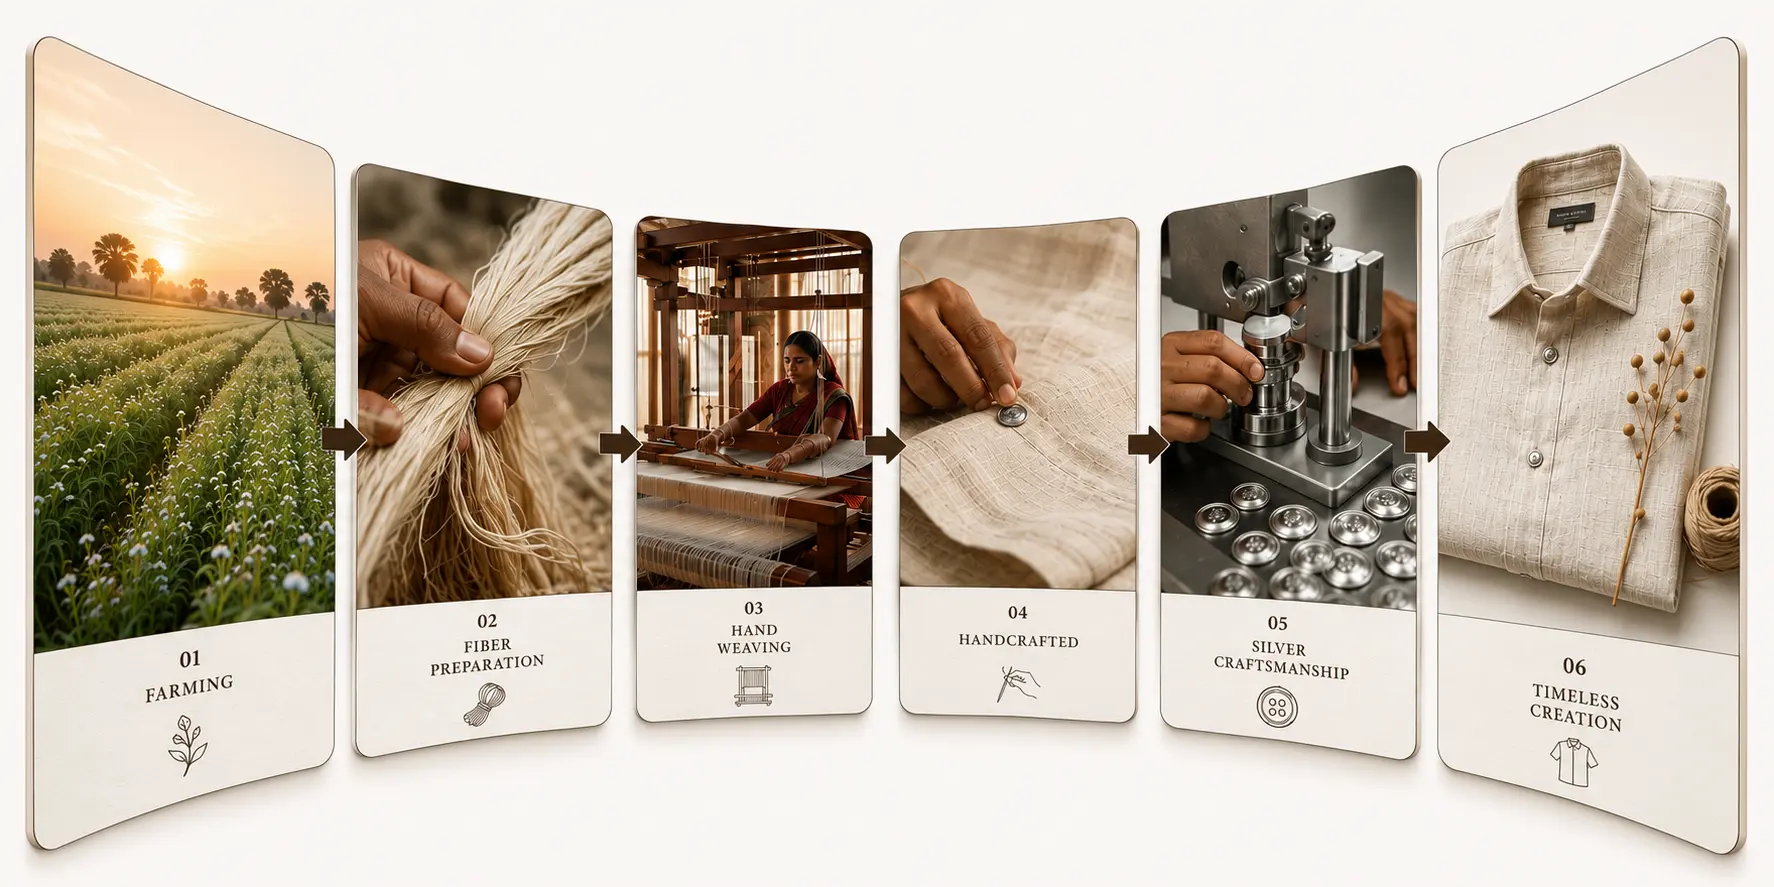
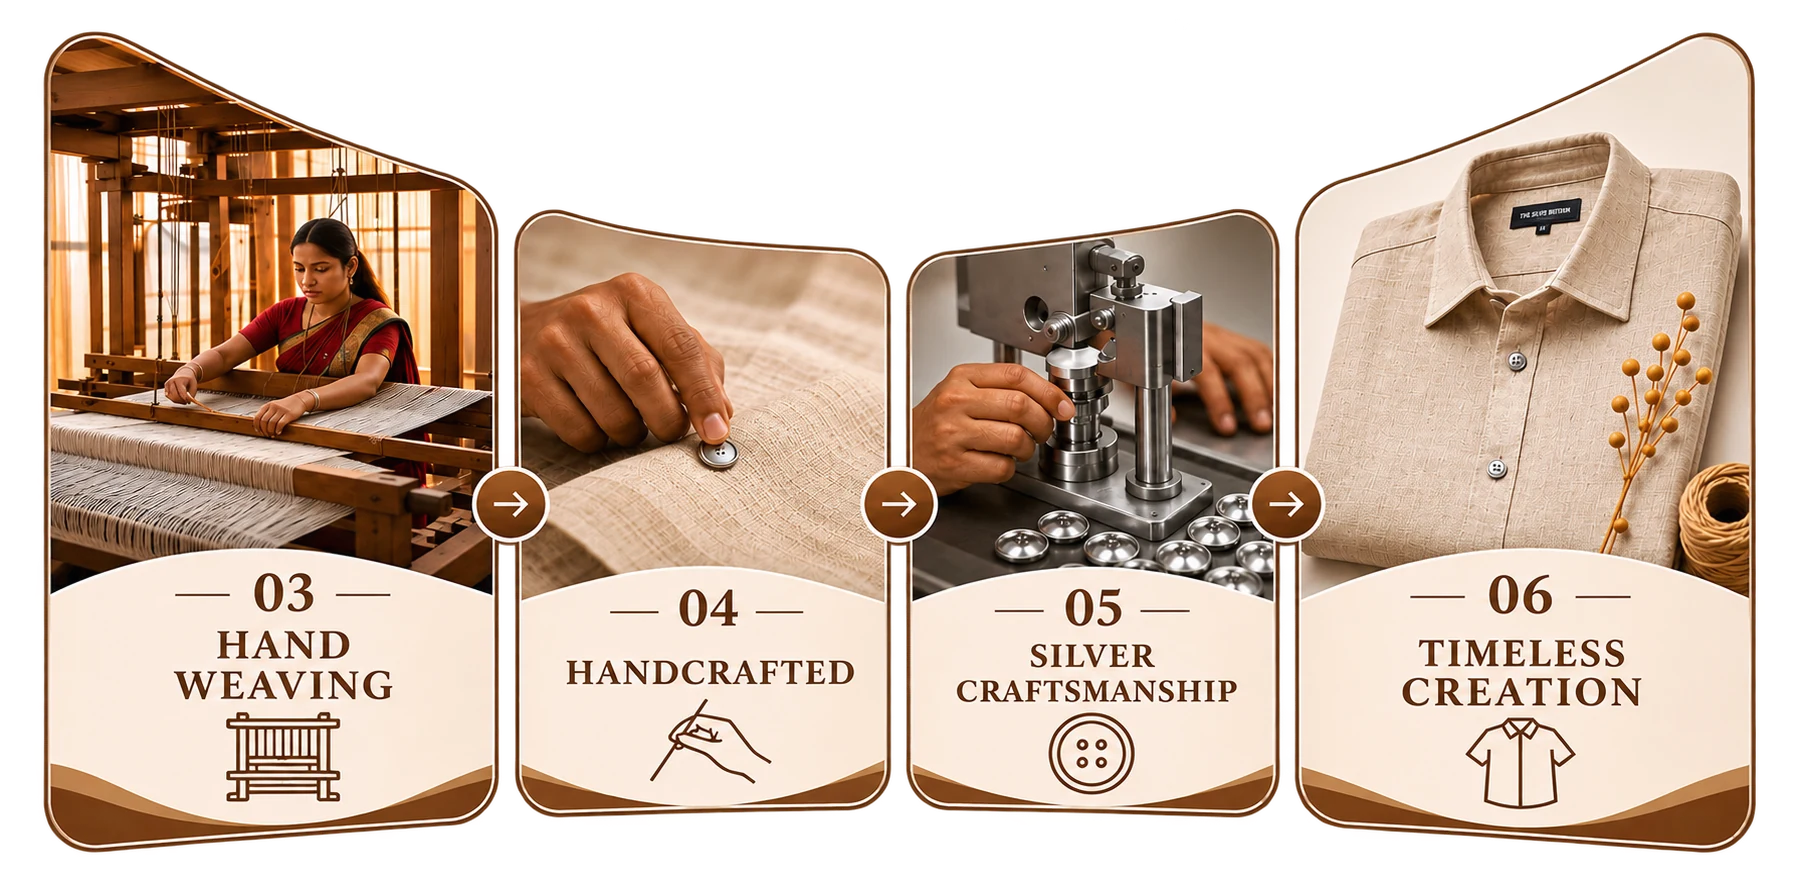
done

diff --git a/app/(storefront)/about/page.tsx b/app/(storefront)/about/page.tsx
@@ -46,28 +46,40 @@ export default function AboutPage() {
             <h2 className="font-[family-name:var(--font-serif)] text-2xl font-semibold text-foreground md:text-3xl">
               Our Story
             </h2>
-            <p className="mt-6 text-base leading-relaxed text-muted-foreground">
-              The Silver Button is a luxury textile brand that embodies the historic craftsmanship
-              of rural India. Each creation is a testament to preserving and elevating traditional
-              artistry — fusing age-old techniques with modern elegance.
+            <p className="mt-6 text-base font-semibold leading-relaxed text-foreground">
+              The Silver Button, Woven with patience. Anchored in silver.
             </p>
             <p className="mt-4 text-base leading-relaxed text-muted-foreground">
-              Born from a homegrown vision and a shared respect for the past, our design language
-              breathes new life into vintage textile collections, heirlooms, and the stories they
-              carry.
+              True luxury does not clamor for attention. It reveals itself in the quiet
+              details—the grain of a traditional weave, the weight of cool metal against the
+              fingertip, and the deliberate slowness of an artisan&apos;s hand.
+            </p>
+            <p className="mt-4 text-base leading-relaxed text-muted-foreground">
+              The Silver Button an intentional collision between heritage handlooms and
+              traditional silversmithing.
             </p>
           </div>
           <div>
             <h2 className="font-[family-name:var(--font-serif)] text-2xl font-semibold text-foreground md:text-3xl">
               What We Do
             </h2>
-            <p className="mt-6 text-base leading-relaxed text-muted-foreground">
-              We specialize in innovative textile curation, intricate calligraphic embroideries, and
-              repurposing character-rich materials into contemporary, wearable art.
+            <p className="mt-6 text-base font-semibold leading-relaxed text-foreground">
+              We make shirts meant to be worn, remembered, and passed down.
             </p>
             <p className="mt-4 text-base leading-relaxed text-muted-foreground">
-              We collaborate closely with artisan clusters across India&apos;s craft regions —
-              celebrating patchwork, quilting, hand-embroidery, block prints, and fine beadwork.
+              At The Silver Button, we believe luxury is found where patience meets purpose.
+            </p>
+            <p className="mt-4 text-base leading-relaxed text-muted-foreground">
+              We design premium handloom linen shirts, cut to a modern silhouette and finished with
+              handcrafted silver buttons cast and detailed by master artisans.
+            </p>
+            <p className="mt-4 text-base leading-relaxed text-muted-foreground">
+              In an era of fleeting trends and synthetic compromises, we return to the enduring
+              dignity of raw craft: pure, breathing weave paired with the weight and luster of
+              genuine silver.
+            </p>
+            <p className="mt-4 text-base leading-relaxed text-muted-foreground">
+              Every stitch honors provenance; every button tells a story of enduring elegance.
             </p>
           </div>
         </div>
@@ -75,8 +87,8 @@ export default function AboutPage() {
         {/* Statement */}
         <div className="mt-12 border-y border-border py-8 text-center md:mt-24 md:py-14">
           <p className="mx-auto max-w-3xl font-[family-name:var(--font-serif)] text-base font-medium leading-relaxed text-foreground sm:text-lg md:text-xl">
-            The Silver Button is more than a label — it is a symbol of cultural continuity,
-            fastening the beauty of the past to the sophistication of the present.
+            The Silver Button an intentional collision between heritage handlooms and
+            traditional silversmithing.
           </p>
         </div>
       </section>

diff --git a/app/(storefront)/page.tsx b/app/(storefront)/page.tsx
@@ -10,19 +10,21 @@ export const revalidate = 60;
 
 const PLACEHOLDER = "https://placehold.co/400x533/e5e7eb/4b5563?text=Product";
 
-/** Mirrors the captions baked into hero_image.png, for legibility on small screens. */
+/**
+ * Mirrors the captions baked into hero_image.webp, for legibility on small screens.
+ * The artwork keeps its original step numbers (03–06) after Farming and Fibre
+ * Preparation were removed.
+ */
 const CRAFT_STEPS = [
-  "Farming",
-  "Fibre Preparation",
-  "Hand Weaving",
-  "Handcrafted",
-  "Silver Craftsmanship",
-  "Timeless Creation",
+  { number: 3, label: "Hand Weaving" },
+  { number: 4, label: "Handcrafted" },
+  { number: 5, label: "Silver Craftsmanship" },
+  { number: 6, label: "Timeless Creation" },
 ] as const;
 
+/** Homepage category chips — only Men's Linen Shirts are surfaced for now. */
 const CATEGORY_GROUPS = [
-  { label: "Men", prefix: "men-", base: "/men" },
-  { label: "Women", prefix: "women-", base: "/women" },
+  { label: "Men", prefix: "men-", base: "/men", only: ["men-linen-shirts"] },
 ] as const;
 
 export default async function HomePage() {
@@ -59,13 +61,13 @@ export default async function HomePage() {
         <DraggableHeroImage />
 
         <ol className="mx-auto grid max-w-md grid-cols-2 gap-x-4 gap-y-3 px-5 pt-6 sm:max-w-2xl sm:grid-cols-3 md:hidden">
-          {CRAFT_STEPS.map((step, i) => (
-            <li key={step} className="flex items-baseline gap-2">
+          {CRAFT_STEPS.map((step) => (
+            <li key={step.label} className="flex items-baseline gap-2">
               <span className="text-[10px] font-semibold tabular-nums text-[#736350]">
-                {String(i + 1).padStart(2, "0")}
+                {String(step.number).padStart(2, "0")}
               </span>
               <span className="text-[11px] font-medium uppercase leading-tight tracking-[0.06em] text-[#4F4232]">
-                {step}
+                {step.label}
               </span>
             </li>
           ))}
@@ -83,15 +85,17 @@ export default async function HomePage() {
       </section>
 
       {/* Category chips — grouped by gender */}
-      <section className="mx-auto max-w-[1280px] px-5 py-10 md:px-16 md:py-14">
-        <div className="grid gap-8 md:grid-cols-2 md:gap-12">
+      <section className="mx-auto max-w-[1280px] px-5 py-6 md:px-16 md:py-8">
+        <div className="grid gap-8">
           {CATEGORY_GROUPS.map((group) => {
-            const cats = allCategories.filter((cat) => cat.slug.startsWith(group.prefix));
+            const cats = allCategories.filter((cat) =>
+              (group.only as readonly string[]).includes(cat.slug),
+            );
             if (cats.length === 0) return null;
 
             return (
               <div key={group.label}>
-                <div className="flex items-baseline justify-between">
+                <div className="flex items-baseline gap-4">
                   <h2 className="text-xs font-semibold uppercase tracking-[0.15em] text-muted-foreground">
                     {group.label}
                   </h2>
@@ -127,7 +131,7 @@ export default async function HomePage() {
 
       {/* Featured Products */}
       {featured.length > 0 && (
-        <section className="mx-auto max-w-[1280px] px-5 py-12 md:px-16 md:py-24">
+        <section className="mx-auto max-w-[1280px] px-5 pb-12 pt-6 md:px-16 md:pb-24 md:pt-10">
           <div className="mb-6 flex items-end justify-between gap-4 md:mb-10">
             <h2 className="font-[family-name:var(--font-serif)] text-xl font-semibold text-foreground sm:text-2xl md:text-3xl">
               Featured

diff --git a/components/product/silver-button-callout.tsx b/components/product/silver-button-callout.tsx
@@ -44,7 +44,6 @@ const DELAY = {
   calloutTitle: 480,
   rule: 560,
   calloutBody: 620,
-  legacy: 780,
   bottomLeft: 900,
   bottomRight: 960,
 } as const;
@@ -52,11 +51,6 @@ const DELAY = {
 const CALLOUT_BODY = [
   "Hand-forged, custom-engraved,",
   "and set by master silversmiths.",
-] as const;
-
-const LEGACY_LINES = [
-  "A legacy connecting Bhagalpuri weavers and master silversmiths.",
-  "Unmatched Bhagalpuri linen. Timeless texture.",
 ] as const;
 
 /**
@@ -286,21 +280,6 @@ function SilverButtonCallout({ className }: SilverButtonCalloutProps) {
             })}
           </div>
         </div>
-
-        <div className="mt-6 hidden space-y-2 md:block">
-          {LEGACY_LINES.map((line, i) => {
-            const r = reveal(open, DELAY.legacy + i * 80);
-            return (
-              <p
-                key={line}
-                style={r.style}
-                className={cn(r.className, SHADOW, "text-[11px] leading-snug text-white/85")}
-              >
-                {line}
-              </p>
-            );
-          })}
-        </div>
       </div>
 
       {/* ---- Brand lockup: bottom bar ---- */}
@@ -346,8 +325,7 @@ function SilverButtonCallout({ className }: SilverButtonCalloutProps) {
       {/* Screen readers get the same information as prose, once. */}
       <p className="sr-only">
         Finished with solid 925 sterling silver buttons — hand-forged, custom-engraved, and set by
-        master silversmiths. A legacy connecting Bhagalpuri weavers and master silversmiths, on
-        unmatched Bhagalpuri linen.
+        master silversmiths.
       </p>
     </div>
   );

diff --git a/components/layout/mobile-nav.tsx b/components/layout/mobile-nav.tsx
@@ -22,17 +22,26 @@ function MobileNav() {
     >
       <div className="flex h-16 items-center justify-around">
         {tabs.map((tab) => {
-          const isActive = tab.match(pathname);
+          const isActive = tab.match(pathname ?? "/");
           const Icon = tab.icon;
 
           return (
             <Link
               key={tab.href}
               href={tab.href}
+              aria-current={isActive ? "page" : undefined}
+              // Tapping Home while already on the homepage scrolls back to the top
+              // (a plain <Link> to the current URL does nothing once you've scrolled).
+              onClick={(event) => {
+                if (tab.href === "/" && pathname === "/") {
+                  event.preventDefault();
+                  window.scrollTo({ top: 0, behavior: "smooth" });
+                }
+              }}
               className={cn(
                 "flex w-full flex-col items-center justify-center h-full border-t-2 pt-1 transition-colors",
                 isActive
-                  ? "border-primary text-foreground"
+                  ? "border-primary bg-secondary/60 text-primary"
                   : "border-transparent text-muted-foreground hover:text-foreground",
               )}
             >

diff --git a/proxy.ts b/proxy.ts
@@ -3,7 +3,7 @@ import { getToken } from "next-auth/jwt";
 
 /**
  * Proxy (replaces middleware in Next.js 16).
- * Handles auth gates for /account/* and /admin/*.
+ * Handles auth gates for /account/*, /cart and /admin/*.
  */
 export async function proxy(request: NextRequest) {
   const { pathname } = request.nextUrl;
@@ -53,6 +53,15 @@ export async function proxy(request: NextRequest) {
     }
   }
 
+  // Protect /cart — signed-out visitors are sent to login, then back to the cart
+  if (pathname === "/cart" || pathname.startsWith("/cart/")) {
+    if (!token) {
+      const loginUrl = new URL("/login", request.url);
+      loginUrl.searchParams.set("next", "/cart");
+      return NextResponse.redirect(loginUrl);
+    }
+  }
+
   // Protect /admin/* — require admin/staff role
   if (pathname.startsWith("/admin") && !pathname.startsWith("/admin-login")) {
     if (!token || !["admin", "staff"].includes(token.role as string)) {
@@ -64,5 +73,5 @@ export async function proxy(request: NextRequest) {
 }
 
 export const config = {
-  matcher: ["/account/:path*", "/admin/:path*"],
+  matcher: ["/account/:path*", "/cart", "/cart/:path*", "/admin/:path*"],
 };

diff --git a/components/home/draggable-hero-image.tsx b/components/home/draggable-hero-image.tsx
@@ -105,14 +105,14 @@ function DraggableHeroImage() {
       >
         <Image
           src="/hero_image.webp"
-          alt="The craft journey: farming, fibre preparation, hand weaving, handcrafting, silver craftsmanship and the finished garment"
-          width={1774}
-          height={887}
+          alt="The craft journey: hand weaving, handcrafting, silver craftsmanship and the finished garment"
+          width={1801}
+          height={873}
           priority
-          quality={70}
-          sizes="(max-width: 640px) 100vw, (max-width: 1024px) 100vw, 1200px"
+          quality={75}
+          sizes="(max-width: 640px) 180vw, (max-width: 1024px) 130vw, 1200px"
           draggable={false}
-          className="h-auto w-[180%] max-w-none sm:w-[150%] lg:w-[120%]"
+          className="mx-auto h-auto w-[180%] max-w-none sm:w-[130%] lg:w-full lg:max-w-[1200px]"
         />
       </div>
 

diff --git a/lib/db.ts b/lib/db.ts
@@ -1,4 +1,21 @@
+import dns from "node:dns";
 import mongoose from "mongoose";
+
+/**
+ * `mongodb+srv://` URIs need an SRV lookup through Node's own DNS client. On some
+ * machines (local DNS proxies, VPNs) Node only sees a loopback resolver that refuses
+ * SRV queries, which surfaces as `querySrv ECONNREFUSED`. When that is the only
+ * resolver configured, fall back to public DNS. Machines with a normal resolver
+ * (including production hosts) are left untouched.
+ */
+if (process.env.MONGODB_URI?.startsWith("mongodb+srv://")) {
+  const servers = dns.getServers();
+  const loopbackOnly =
+    servers.length > 0 && servers.every((s) => s === "127.0.0.1" || s === "::1");
+  if (loopbackOnly) {
+    dns.setServers(["8.8.8.8", "1.1.1.1"]);
+  }
+}
 
 const MONGODB_URI = process.env.MONGODB_URI!;
 

diff --git a/actions/cart.ts b/actions/cart.ts
@@ -36,7 +36,11 @@ async function getOrCreateCartId(): Promise<string> {
 }
 
 export async function getCart() {
-  const cartId = await getOrCreateCartId();
+  // Read-only: this is called while rendering the cart page, where Next.js forbids
+  // setting cookies. A visitor with no cart cookie simply has an empty cart; the
+  // cookie is created by the mutating actions below (which run as server actions).
+  const cookieStore = await cookies();
+  const cartId = cookieStore.get(CART_COOKIE)?.value;
   return getCartService(cartId);
 }
 

diff --git a/components/layout/footer.tsx b/components/layout/footer.tsx
@@ -22,7 +22,8 @@ function Footer({ navItems }: FooterProps) {
             The Silver Button
           </span>
           <p className="max-w-sm text-sm text-muted-foreground md:pr-4">
-            Crafting Heritage, Sustaining Artistry. Woven with purpose and made to last.
+            The Silver Button an intentional collision between heritage handlooms and
+            traditional silversmithing.
           </p>
         </div>
 
